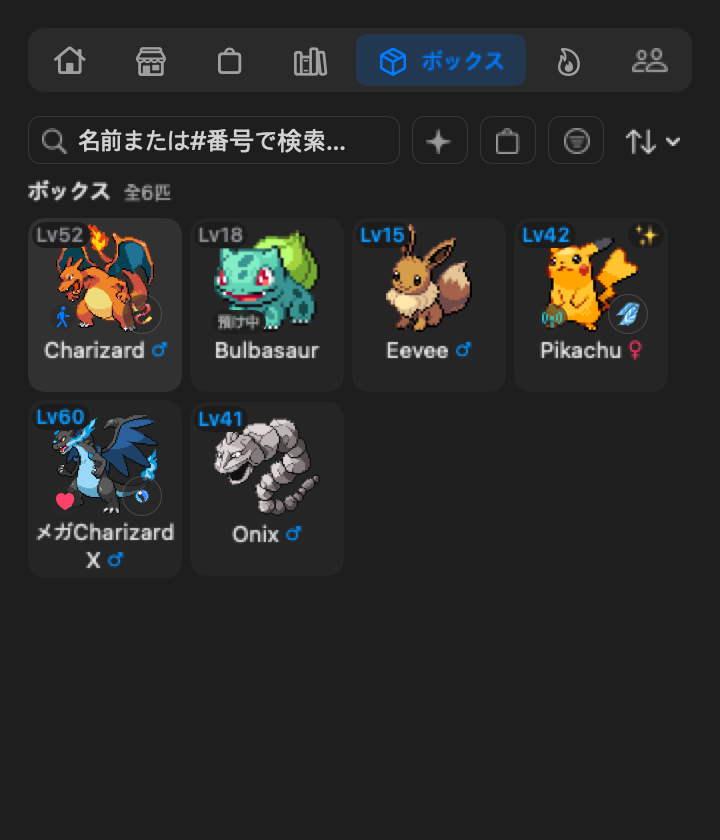
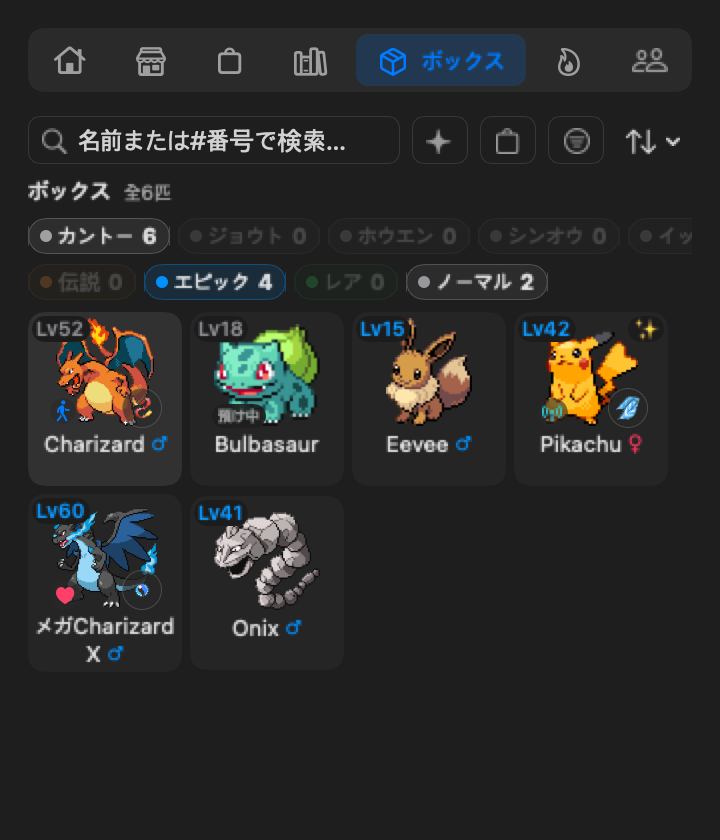
docs: add a README image of the Box region and grade chips, and redraw the battle, Box and move images

Changed region(s): [[0.0306, 0.2476, 0.4583, 0.8048], [0.4889, 0.2476, 0.9167, 0.5571]]

diff --git a/Tests/PokeTokenBarTests/ReadmeScreenshotTests.swift b/Tests/PokeTokenBarTests/ReadmeScreenshotTests.swift
@@ -79,8 +79,8 @@ final class ReadmeScreenshotTests: XCTestCase {
             try await waitUntil("the raised Pokémon's line to load") { store.currentLine != nil }
 
             func popover(_ usage: UsageStore = usage, store: CompanionStore = store, entry: BattleEntryStore = entry,
+                         nav: PopoverNavigation = PopoverNavigation(),
                          _ configure: (PopoverNavigation) -> Void) -> some View {
-                let nav = PopoverNavigation()
                 configure(nav)
                 return PopoverView(screenHeight: 5000)
                     .environment(usage).environment(store).environment(updater).environment(nav)
@@ -119,6 +119,11 @@ final class ReadmeScreenshotTests: XCTestCase {
             try await waitUntil("the battle store's line to load") { battleStore.currentLine != nil }
             try await shot(popover(store: battleStore, entry: battleEntry) { $0.tab = .battle; $0.battleSubTab = .entry },
                            "screenshot-battle\(suffix)", in: dir, height: 482)
+            let chipsNav = PopoverNavigation(boxFilters: BoxFilterStore(defaults: battleDefaults), defaults: battleDefaults)
+            try await shot(popover(store: battleStore, entry: battleEntry, nav: chipsNav) {
+                $0.tab = .box
+                $0.boxFilters.filter.rarity = .rare
+            }, "screenshot-box-chips\(suffix)", in: dir, height: 420)
             try await shot(gyms(store: store, uploader: uploader, entry: entry, catalog: catalog),
                            "screenshot-gyms\(suffix)", in: dir, height: nil)
             try await shot(replay(language: language, catalog: catalog), "screenshot-gym-replay\(suffix)", in: dir,

diff --git a/scripts/release-asset-gate.py b/scripts/release-asset-gate.py
@@ -31,7 +31,9 @@ SCREENS = (
     ("BagView.swift", ("screenshot-bag", "screenshot-held-items")),
     ("HeldItemSections.swift", ("screenshot-held-items",)),
     ("BoxView.swift", ("screenshot-collection-box",)),
-    ("BoxFilterPanel.swift", ("screenshot-collection-box",)),
+    ("BoxFilterPanel.swift", ("screenshot-collection-box", "screenshot-box-chips")),
+    ("BoxScopeChips.swift", ("screenshot-collection-box", "screenshot-box-chips")),
+    ("MoveNameLabel.swift", ("screenshot-move-order", "screenshot-status-moves", "screenshot-gym-replay")),
     ("BoxDetailView.swift", ("screenshot-pokemon-profile", "screenshot-exp-share", "screenshot-nature-picker")),
     ("PokemonDetailParts.swift", ("screenshot-pokemon-profile", "screenshot-nature-picker")),
     ("NaturePicker.swift", ("screenshot-nature-picker",)),

diff --git a/README.md b/README.md
@@ -83,9 +83,16 @@ Shiny hatches keep their distinct colors through every evolution — menu bar, h
 <h3>A Pokédex worth filling</h3>
 The <b>Pokédex</b> folds every species you've owned into one cell — 16 per page in a 4×4 grid. Search by name or number, filter by rarity or shiny appearance, and change the sort order. Turn pages with the scroll wheel or trackpad, or use the larger arrow hit areas. Click a collected Pokémon in Home's evolution line to open its species page (clicking the big Home sprite grows your companion instead); Back returns to the Pokédex page you came from. The page is about the species — and an "N in your Box" button jumps to the individuals you own.
 <br><br>
-The <b>Box</b> tab holds every Pokémon you own — the one you're raising, your friends and the graduated ones — with its level, shiny and gender marks, and held item. Search, filter by shiny or held item, and sort. Open one for its stats, nature, IVs, moves, evolution progress and the big <b>held item</b> slot: this is the one place to equip, swap or remove an item (locked while the Pokémon is in an open trade). Battle, evolution cards and Home only show the item and link back here.
+The <b>Box</b> tab holds every Pokémon you own — the one you're raising, your friends and the graduated ones — with its level, shiny and gender marks, and held item. Search, filter by region, grade, shiny or held item, and sort. Open one for its stats, nature, IVs, moves, evolution progress and the big <b>held item</b> slot: this is the one place to equip, swap or remove an item (locked while the Pokémon is in an open trade). Battle, evolution cards and Home only show the item and link back here.
 </td>
 <td width="45%" align="center"><img src="assets/screenshot-collection-pokedex.png" width="300" alt="Pokédex — one cell per species"><br><br><img src="assets/screenshot-collection-box.png" width="300" alt="Box — every Pokémon you own, with level and held item"></td>
+</tr>
+<tr>
+<td width="45%" align="center"><img src="assets/screenshot-box-chips.png" width="300" alt="The Box with region and grade chips above the grid and the Epic grade picked"></td>
+<td width="55%" valign="middle">
+<h3>Filter the Box by region and grade</h3>
+Two chip rows sit above the Box grid, like the Pokédex header: the regions from Kanto to Paldea, then the grades. Each chip counts the Pokémon in your Box. Click a chip to filter and click it again to clear. One region and one grade can be on at a time, and they combine with search and the filter panel. A Pokémon's region follows its current species, so an Onix that became Steelix counts as Johto.
+</td>
 </tr>
 <tr>
 <td width="45%" align="center"><img src="assets/screenshot-dex-next-evolution.png" width="300" alt="Snorlax's Pokédex page with the pet condition and a raised Munchlax's 3/30 progress"></td>
@@ -201,10 +208,10 @@ The Shop's Growth tab adds the <b>Ability Capsule</b> (the other regular ability
 <td width="45%" align="center"><img src="assets/screenshot-nature-picker.png" width="300" alt="An Onix's Box page with the 5×5 nature chart open, the Ability Capsule, Ability Patch and Gold Bottle Cap, and a Bottle Cap on each IV"></td>
 </tr>
 <tr>
-<td width="45%" align="center"><img src="assets/screenshot-battle.png" width="300" alt="Battle tab — an entry of up to six Pokémon in fighting order"><br><br><img src="assets/screenshot-gyms.png" width="300" alt="Gym leaders, Elite Four, hideout and the badge case"></td>
+<td width="45%" align="center"><img src="assets/screenshot-battle.png" width="300" alt="Battle tab, Entry sub-tab — up to six Pokémon in fighting order"><br><br><img src="assets/screenshot-gyms.png" width="300" alt="Gym leaders, Elite Four, hideout and the badge case"></td>
 <td width="55%" valign="middle">
 <h3>⚔ Gyms, the Elite Four, and a badge case</h3>
-With the <a href="bot/README.md">YPoke</a> link set up, the <b>Battle</b> tab holds your entry: up to six Pokémon that fight in order. When one faints the next comes in; nothing switches mid-battle. <b>Auto</b> sends the Pokémon you're raising.
+With the <a href="bot/README.md">YPoke</a> link set up, the <b>Battle</b> tab has three sub-tabs. <b>Entry</b> holds up to six Pokémon that fight in order, <b>Battle</b> holds the gyms, and <b>History</b> lists your recent battles. When one faints the next comes in; nothing switches mid-battle. <b>Auto</b> sends the Pokémon you're raising.
 <br><br>
 Under <b>Gyms</b>, each region has eight leaders with their own type and team. Your entry fights at Lv50 or below, and nothing is posted to Slack. A win earns the badge and can grant a TM. Eight badges open the <b>Elite Four</b> run, and the <b>hideout</b> is a run of battles in a row: your team is fully healed before each one, and a loss starts the run again. The <b>badge case</b> shows each region's badges.
 </td>
@@ -212,7 +219,7 @@ Under <b>Gyms</b>, each region has eight leaders with their own type and team. Y
 <tr>
 <td width="55%" valign="middle">
 <h3>▶ Watch the battle play out</h3>
-A gym fight plays back turn by turn: moves, damage, HP bars, and each side's remaining Pokémon. Fast-forward, step to the next turn, or skip to the result.
+A gym fight plays back turn by turn: moves, damage, HP bars, and each side's remaining Pokémon. Moves are named in the app's language. Fast-forward, step to the next turn, or skip to the result.
 </td>
 <td width="45%" align="center"><img src="assets/screenshot-gym-replay.png" width="300" alt="A gym battle replay stopped mid-fight"></td>
 </tr>
